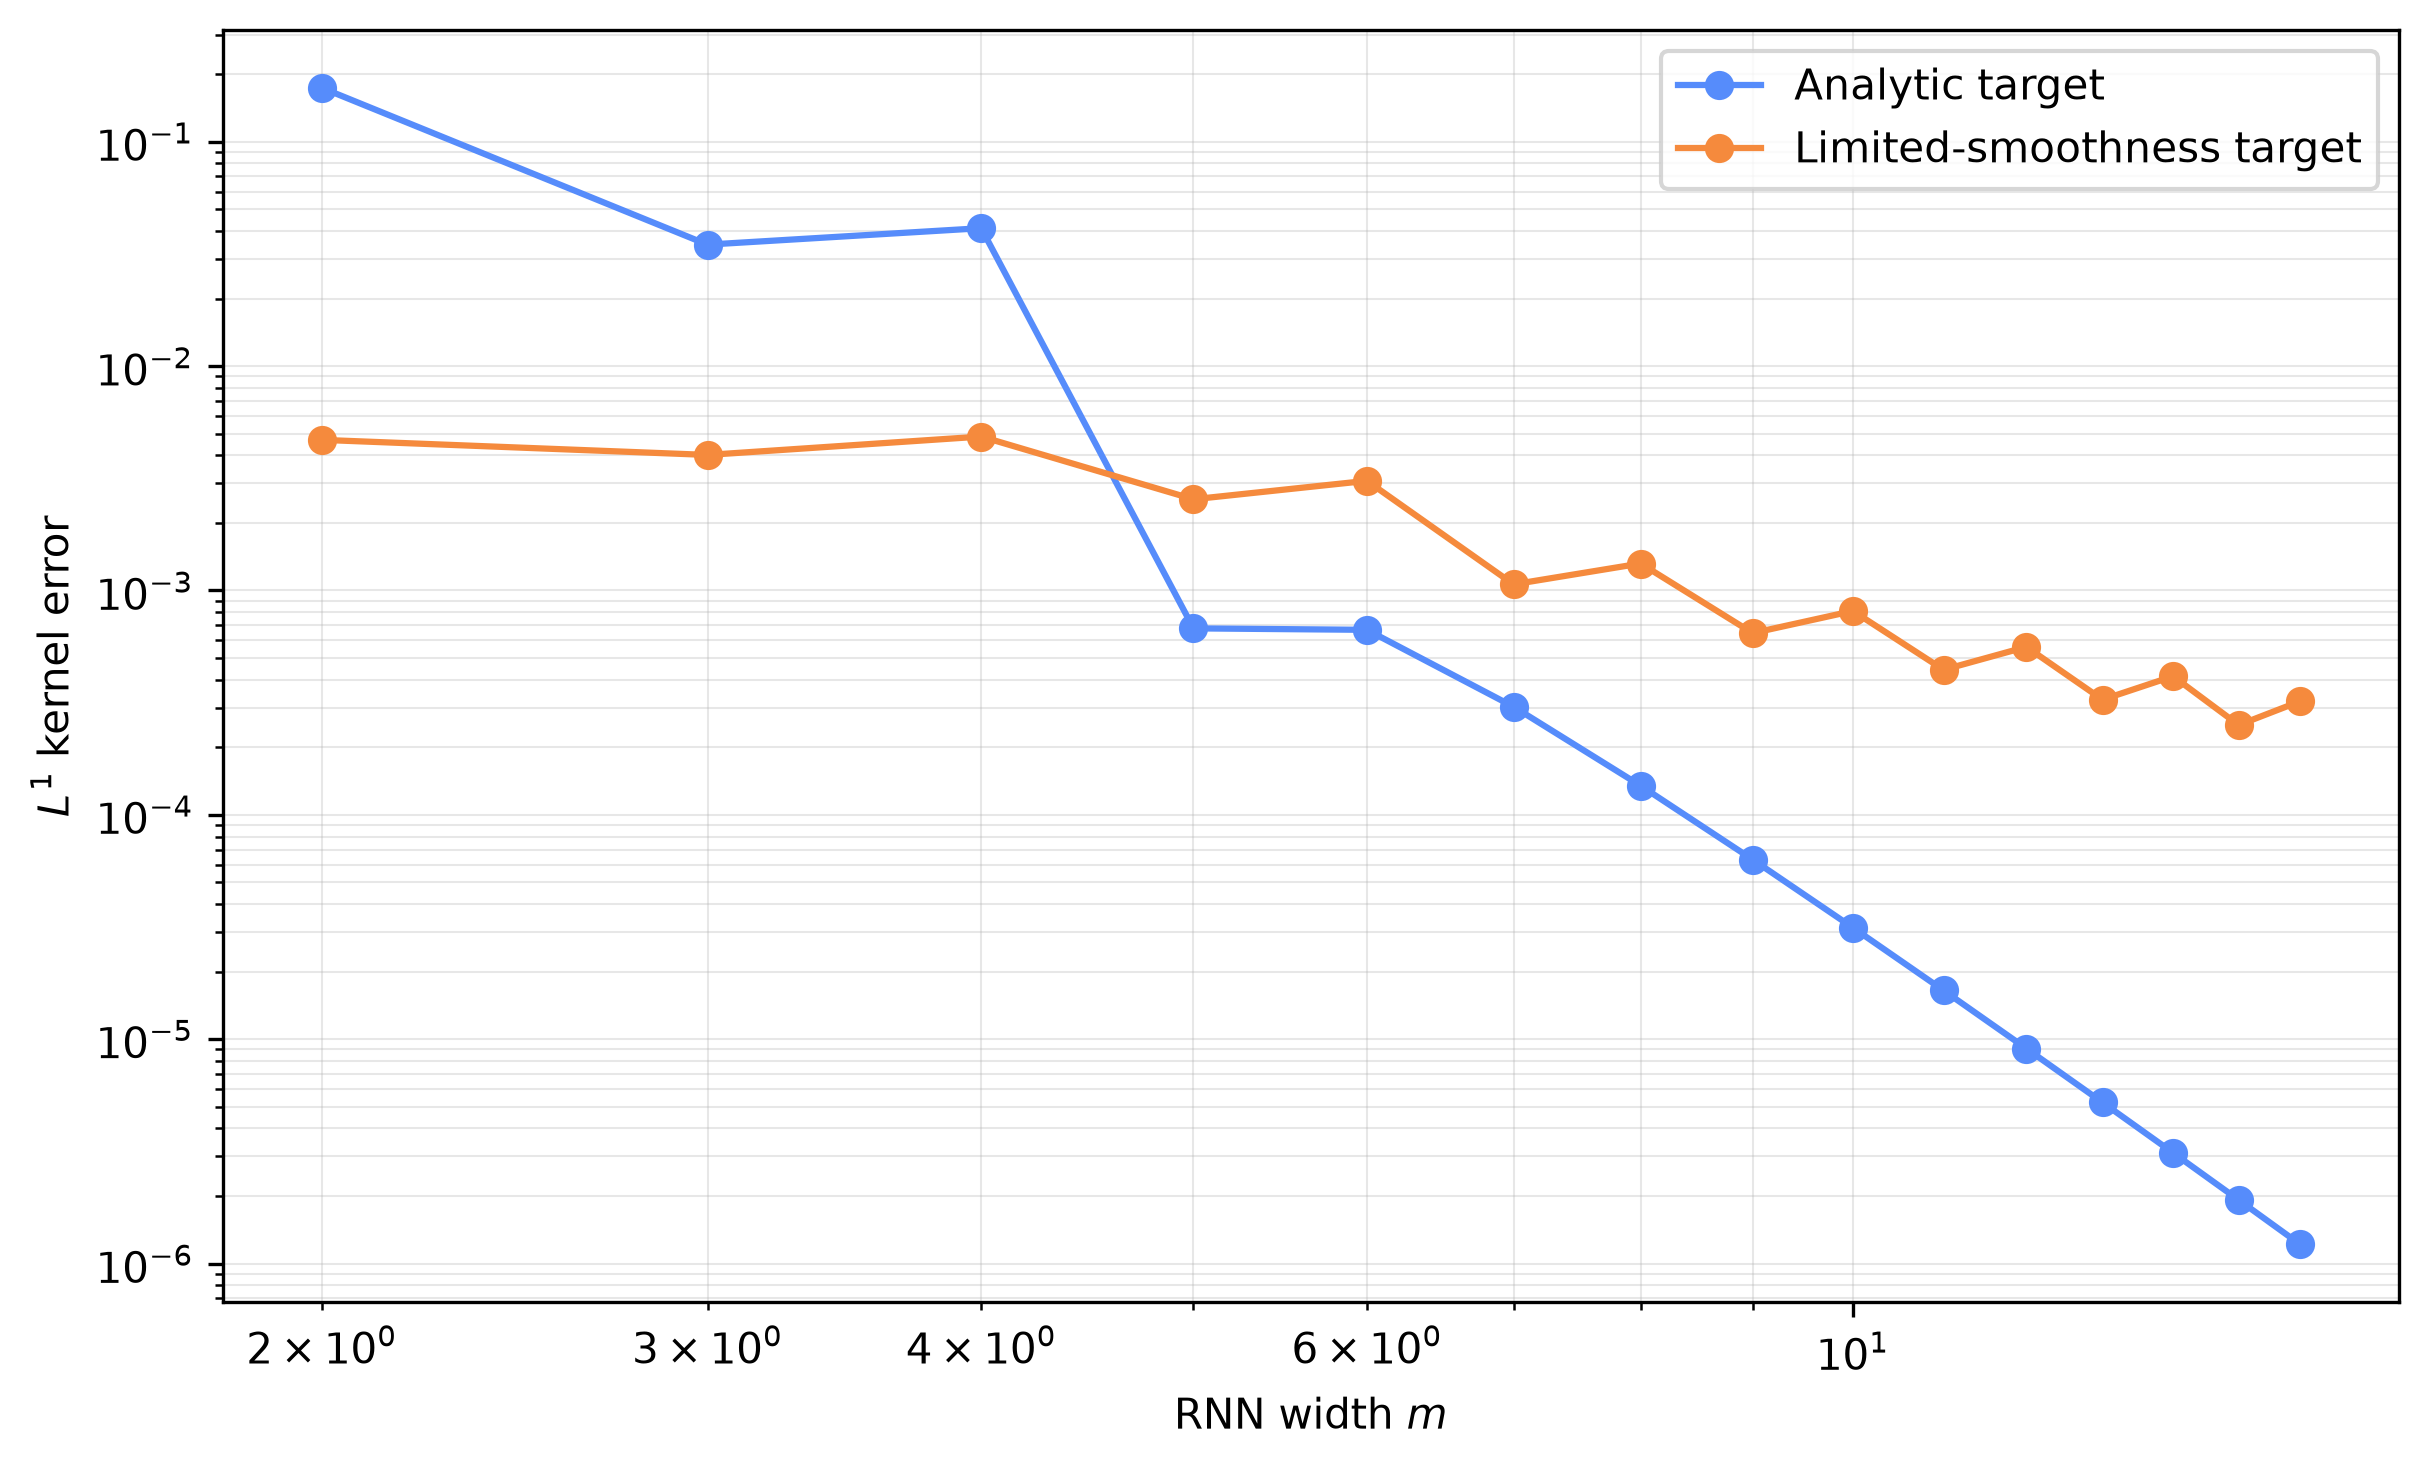
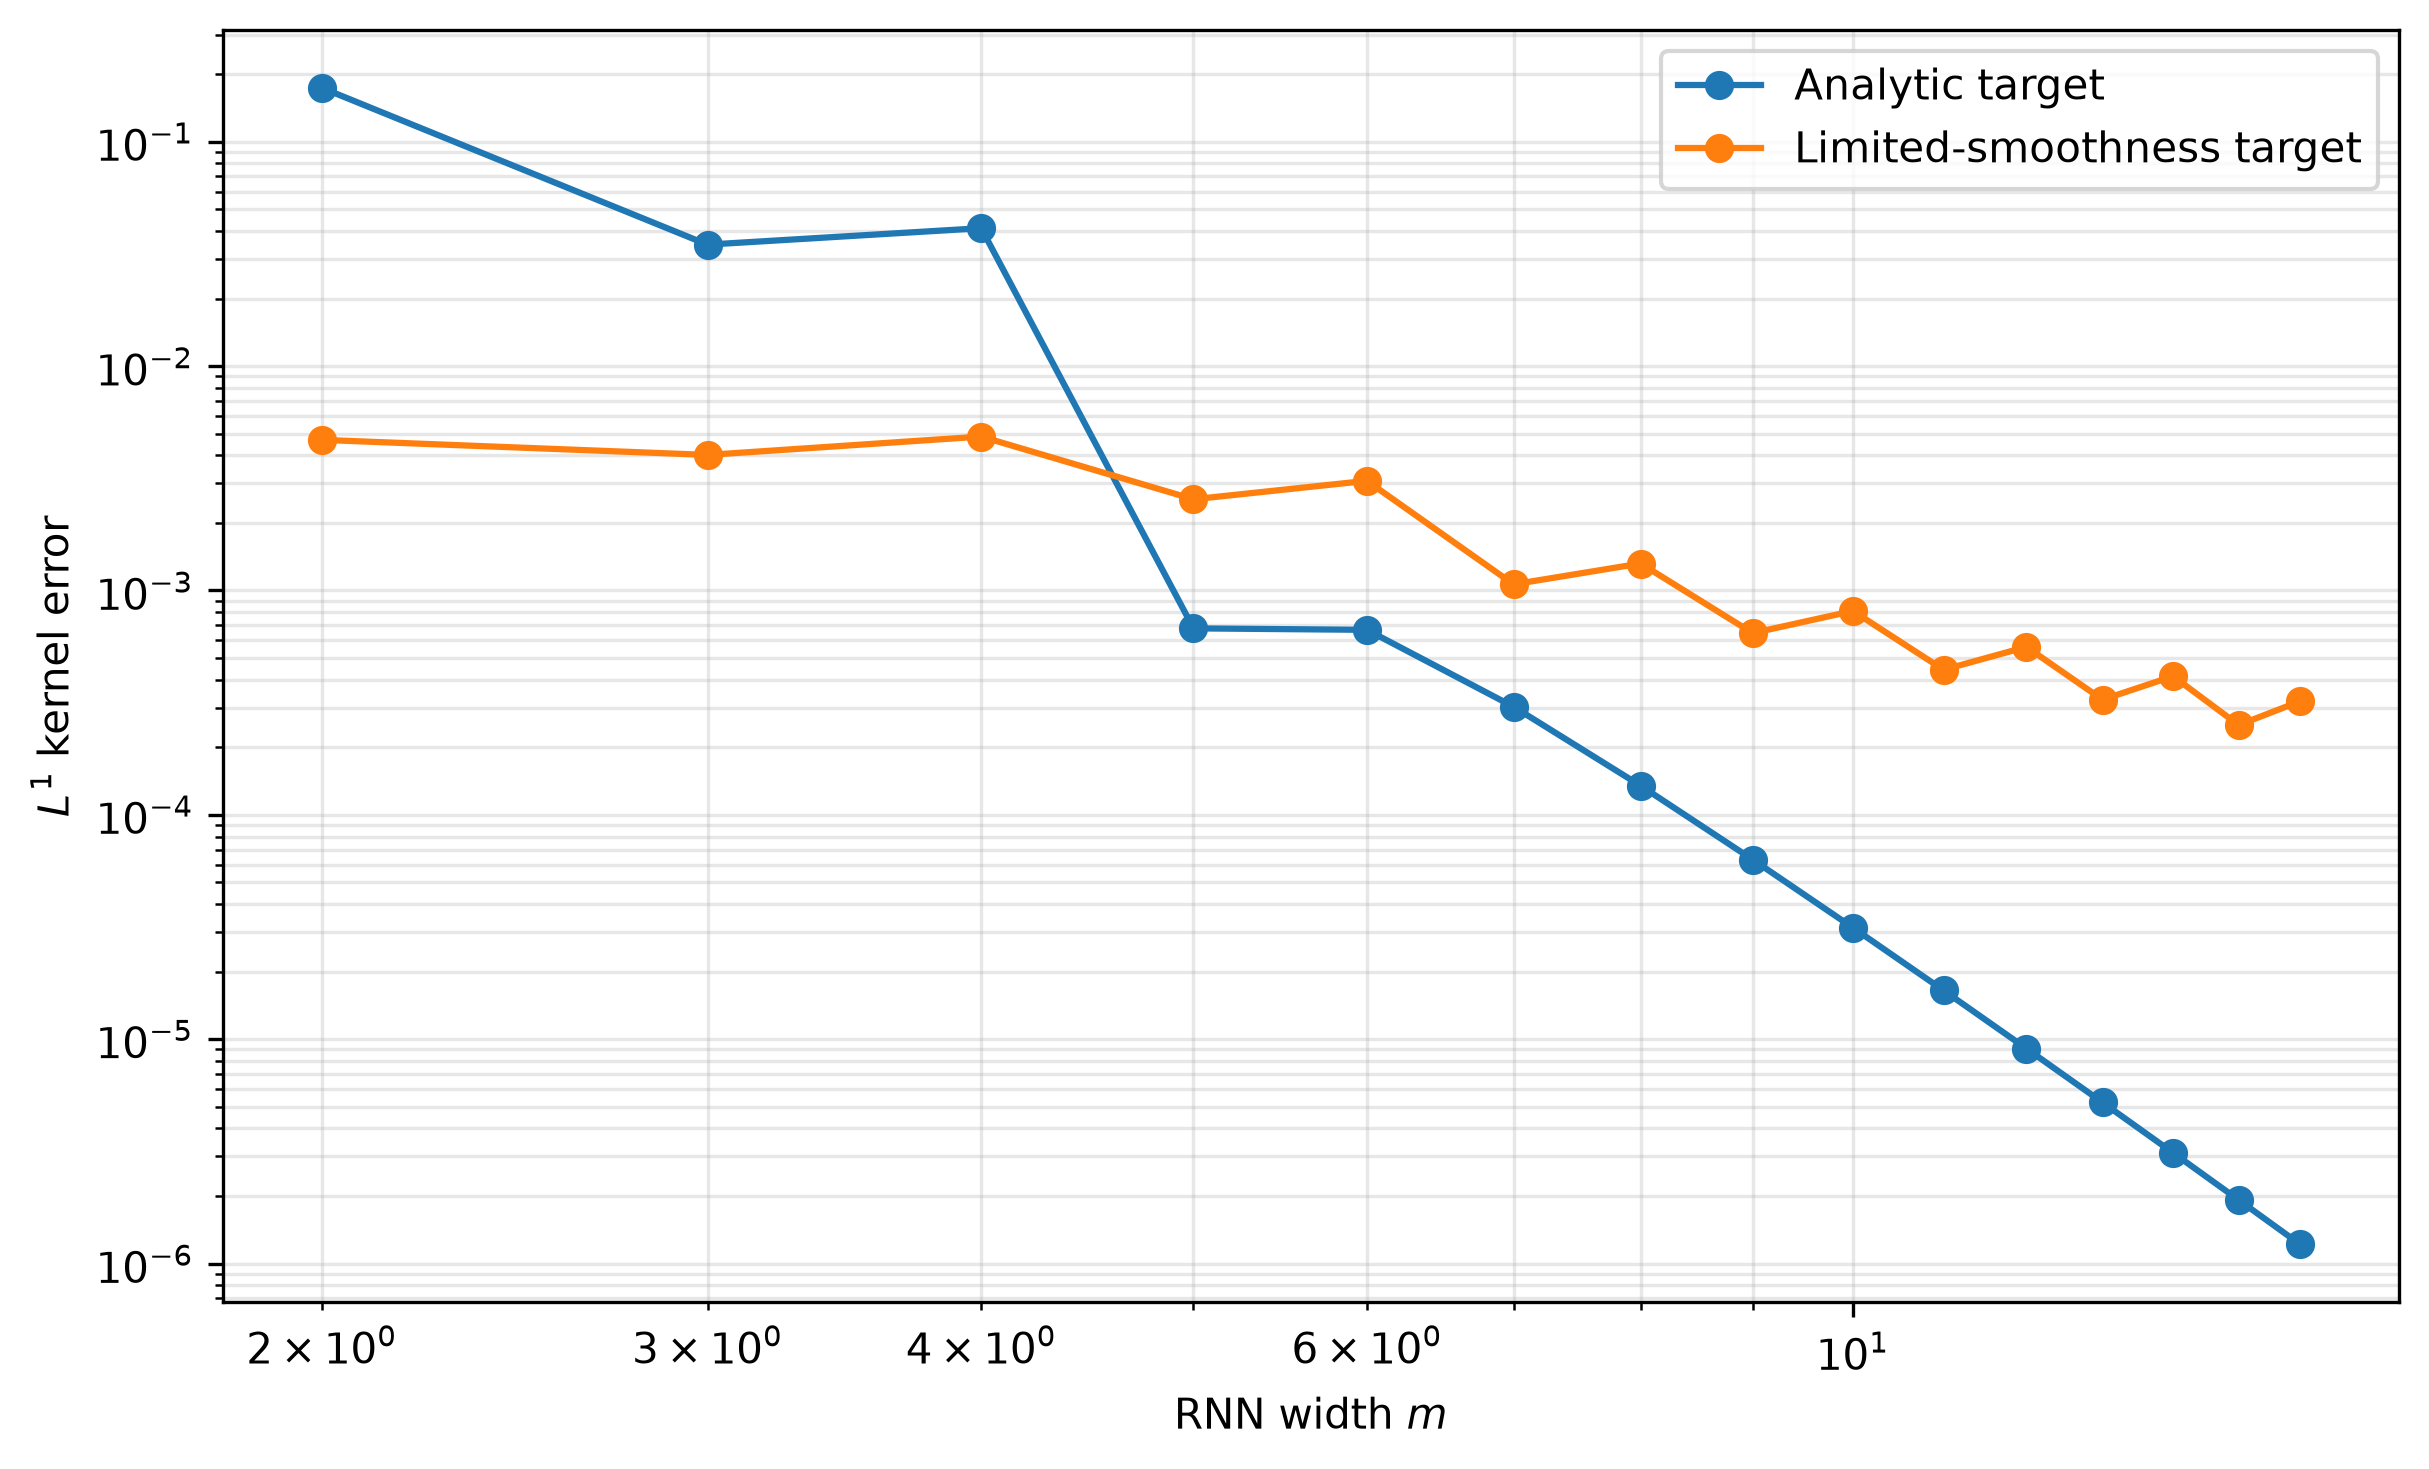
roh hat analytic coefficients print

diff --git a/experiments/04_theorem10_approximation_rates.py b/experiments/04_theorem10_approximation_rates.py
@@ -1371,7 +1371,37 @@ def save_results_table(
                     ]
                 )
 
+def print_analytic_width_four_coefficients() -> None:
+    """
+    Fit and print the coefficients of rho_hat_4 for the
+    analytic target.
+    """
+    width = 4
 
+    rates = theorem10_rates(width)
+
+    basis_train = exponential_basis(
+        t_train,
+        rates,
+    )
+
+    coefficients = fit_coefficients(
+        smooth_target_kernel(t_train),
+        basis_train,
+    )
+
+    print(
+        "\nAnalytic target, m=4:"
+    )
+
+    for index, (coefficient, rate) in enumerate(
+        zip(coefficients, rates, strict=True),
+        start=1,
+    ):
+        print(
+            f"  a_{index} = {coefficient:.16e}, "
+            f"lambda_{index} = {rate:.6f}"
+        )
 # ============================================================
 # Main
 # ============================================================
@@ -1523,3 +1553,4 @@ if __name__ == "__main__":
         TABLE_DIR
         / "theorem10_approximation_results.csv"
     )
+    print_analytic_width_four_coefficients()
